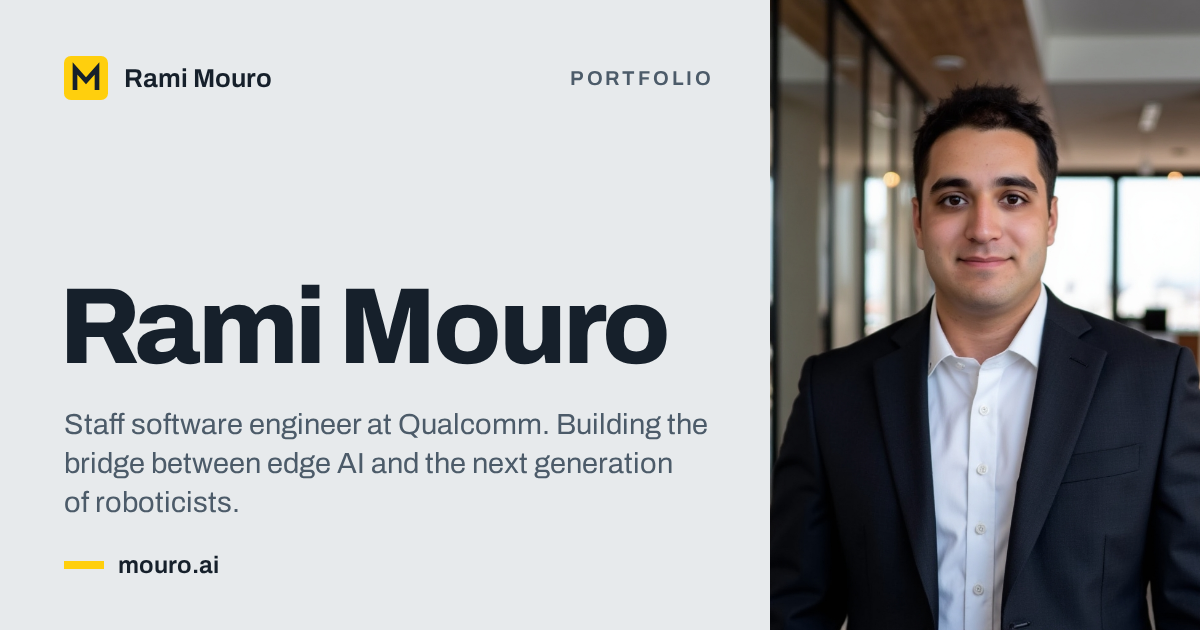
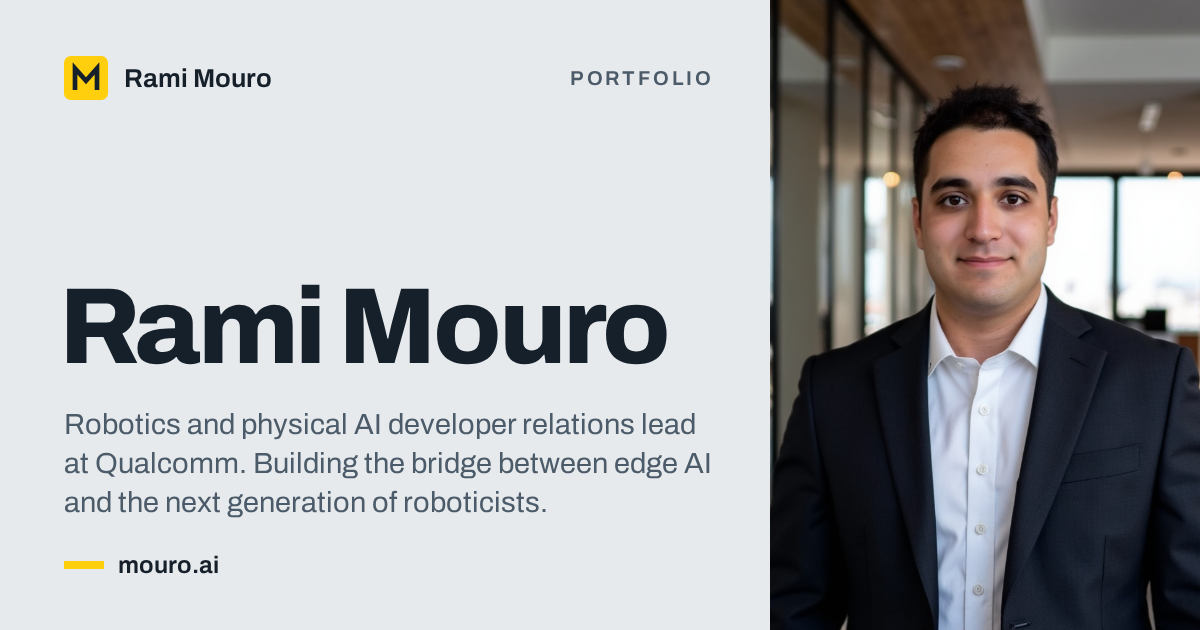
Share cards: new role on the home card, cards for the three new write-ups

Changed region(s): [[0.0308, 0.6635, 0.5858, 0.754], [0.0617, 0.7841, 0.4625, 0.8143]]

diff --git a/site/projects/first-k12/index.html b/site/projects/first-k12/index.html
@@ -1,0 +1,27 @@
+<!doctype html>
+<html lang="en">
+<head>
+    <!-- Written by scripts/render-share-cards.mjs — edit the list there, not this file. -->
+    <meta charset="utf-8">
+    <meta name="viewport" content="width=device-width, initial-scale=1">
+    <title>FIRST and K-12 robotics at Qualcomm — Rami Mouro</title>
+    <meta name="description" content="A grassroots robotics partnership with FIRST that became a Qualcomm engineering initiative.">
+    <meta property="og:title" content="FIRST and K-12 robotics at Qualcomm — Rami Mouro">
+    <meta property="og:description" content="A grassroots robotics partnership with FIRST that became a Qualcomm engineering initiative.">
+    <meta property="og:type" content="article">
+    <meta property="og:url" content="https://mouro.ai/projects/first-k12/">
+    <meta property="og:site_name" content="Rami Mouro">
+    <meta property="og:image" content="https://mouro.ai/static/share/first-k12.png">
+    <meta property="og:image:width" content="1200">
+    <meta property="og:image:height" content="630">
+    <meta property="og:image:alt" content="FIRST and K-12 robotics at Qualcomm: A grassroots robotics partnership with FIRST that became a Qualcomm engineering initiative.">
+    <meta name="twitter:card" content="summary_large_image">
+    <link rel="canonical" href="https://mouro.ai/projects/#first-k12">
+    <link rel="icon" href="/static/img/favicon.svg" type="image/svg+xml">
+    <meta http-equiv="refresh" content="0; url=/projects/#first-k12">
+    <script>location.replace('/projects/#first-k12');</script>
+</head>
+<body>
+    <p><a href="/projects/#first-k12">FIRST and K-12 robotics at Qualcomm</a> is on the projects page.</p>
+</body>
+</html>

diff --git a/site/projects/edge-ai-demos/index.html b/site/projects/edge-ai-demos/index.html
@@ -1,0 +1,27 @@
+<!doctype html>
+<html lang="en">
+<head>
+    <!-- Written by scripts/render-share-cards.mjs — edit the list there, not this file. -->
+    <meta charset="utf-8">
+    <meta name="viewport" content="width=device-width, initial-scale=1">
+    <title>Edge AI demos — Rami Mouro</title>
+    <meta name="description" content="MCP across cloud, PC and IoT hardware, on-device Gemma, and the RUBIK Pi developer experience.">
+    <meta property="og:title" content="Edge AI demos — Rami Mouro">
+    <meta property="og:description" content="MCP across cloud, PC and IoT hardware, on-device Gemma, and the RUBIK Pi developer experience.">
+    <meta property="og:type" content="article">
+    <meta property="og:url" content="https://mouro.ai/projects/edge-ai-demos/">
+    <meta property="og:site_name" content="Rami Mouro">
+    <meta property="og:image" content="https://mouro.ai/static/share/edge-ai-demos.png">
+    <meta property="og:image:width" content="1200">
+    <meta property="og:image:height" content="630">
+    <meta property="og:image:alt" content="Edge AI demos: MCP across cloud, PC and IoT hardware, on-device Gemma, and the RUBIK Pi developer experience.">
+    <meta name="twitter:card" content="summary_large_image">
+    <link rel="canonical" href="https://mouro.ai/projects/#edge-ai-demos">
+    <link rel="icon" href="/static/img/favicon.svg" type="image/svg+xml">
+    <meta http-equiv="refresh" content="0; url=/projects/#edge-ai-demos">
+    <script>location.replace('/projects/#edge-ai-demos');</script>
+</head>
+<body>
+    <p><a href="/projects/#edge-ai-demos">Edge AI demos</a> is on the projects page.</p>
+</body>
+</html>

diff --git a/site/projects/pi05/index.html b/site/projects/pi05/index.html
@@ -1,0 +1,27 @@
+<!doctype html>
+<html lang="en">
+<head>
+    <!-- Written by scripts/render-share-cards.mjs — edit the list there, not this file. -->
+    <meta charset="utf-8">
+    <meta name="viewport" content="width=device-width, initial-scale=1">
+    <title>Pi0.5 VLA on Dragonwing NPU — Rami Mouro</title>
+    <meta name="description" content="A vision-language-action model running on edge NPUs: 86/100 task success on LIBERO-10.">
+    <meta property="og:title" content="Pi0.5 VLA on Dragonwing NPU — Rami Mouro">
+    <meta property="og:description" content="A vision-language-action model running on edge NPUs: 86/100 task success on LIBERO-10.">
+    <meta property="og:type" content="article">
+    <meta property="og:url" content="https://mouro.ai/projects/pi05/">
+    <meta property="og:site_name" content="Rami Mouro">
+    <meta property="og:image" content="https://mouro.ai/static/share/pi05.png">
+    <meta property="og:image:width" content="1200">
+    <meta property="og:image:height" content="630">
+    <meta property="og:image:alt" content="Pi0.5 VLA on Dragonwing NPU: A vision-language-action model running on edge NPUs: 86/100 task success on LIBERO-10.">
+    <meta name="twitter:card" content="summary_large_image">
+    <link rel="canonical" href="https://mouro.ai/projects/#pi05">
+    <link rel="icon" href="/static/img/favicon.svg" type="image/svg+xml">
+    <meta http-equiv="refresh" content="0; url=/projects/#pi05">
+    <script>location.replace('/projects/#pi05');</script>
+</head>
+<body>
+    <p><a href="/projects/#pi05">Pi0.5 VLA on Dragonwing NPU</a> is on the projects page.</p>
+</body>
+</html>
